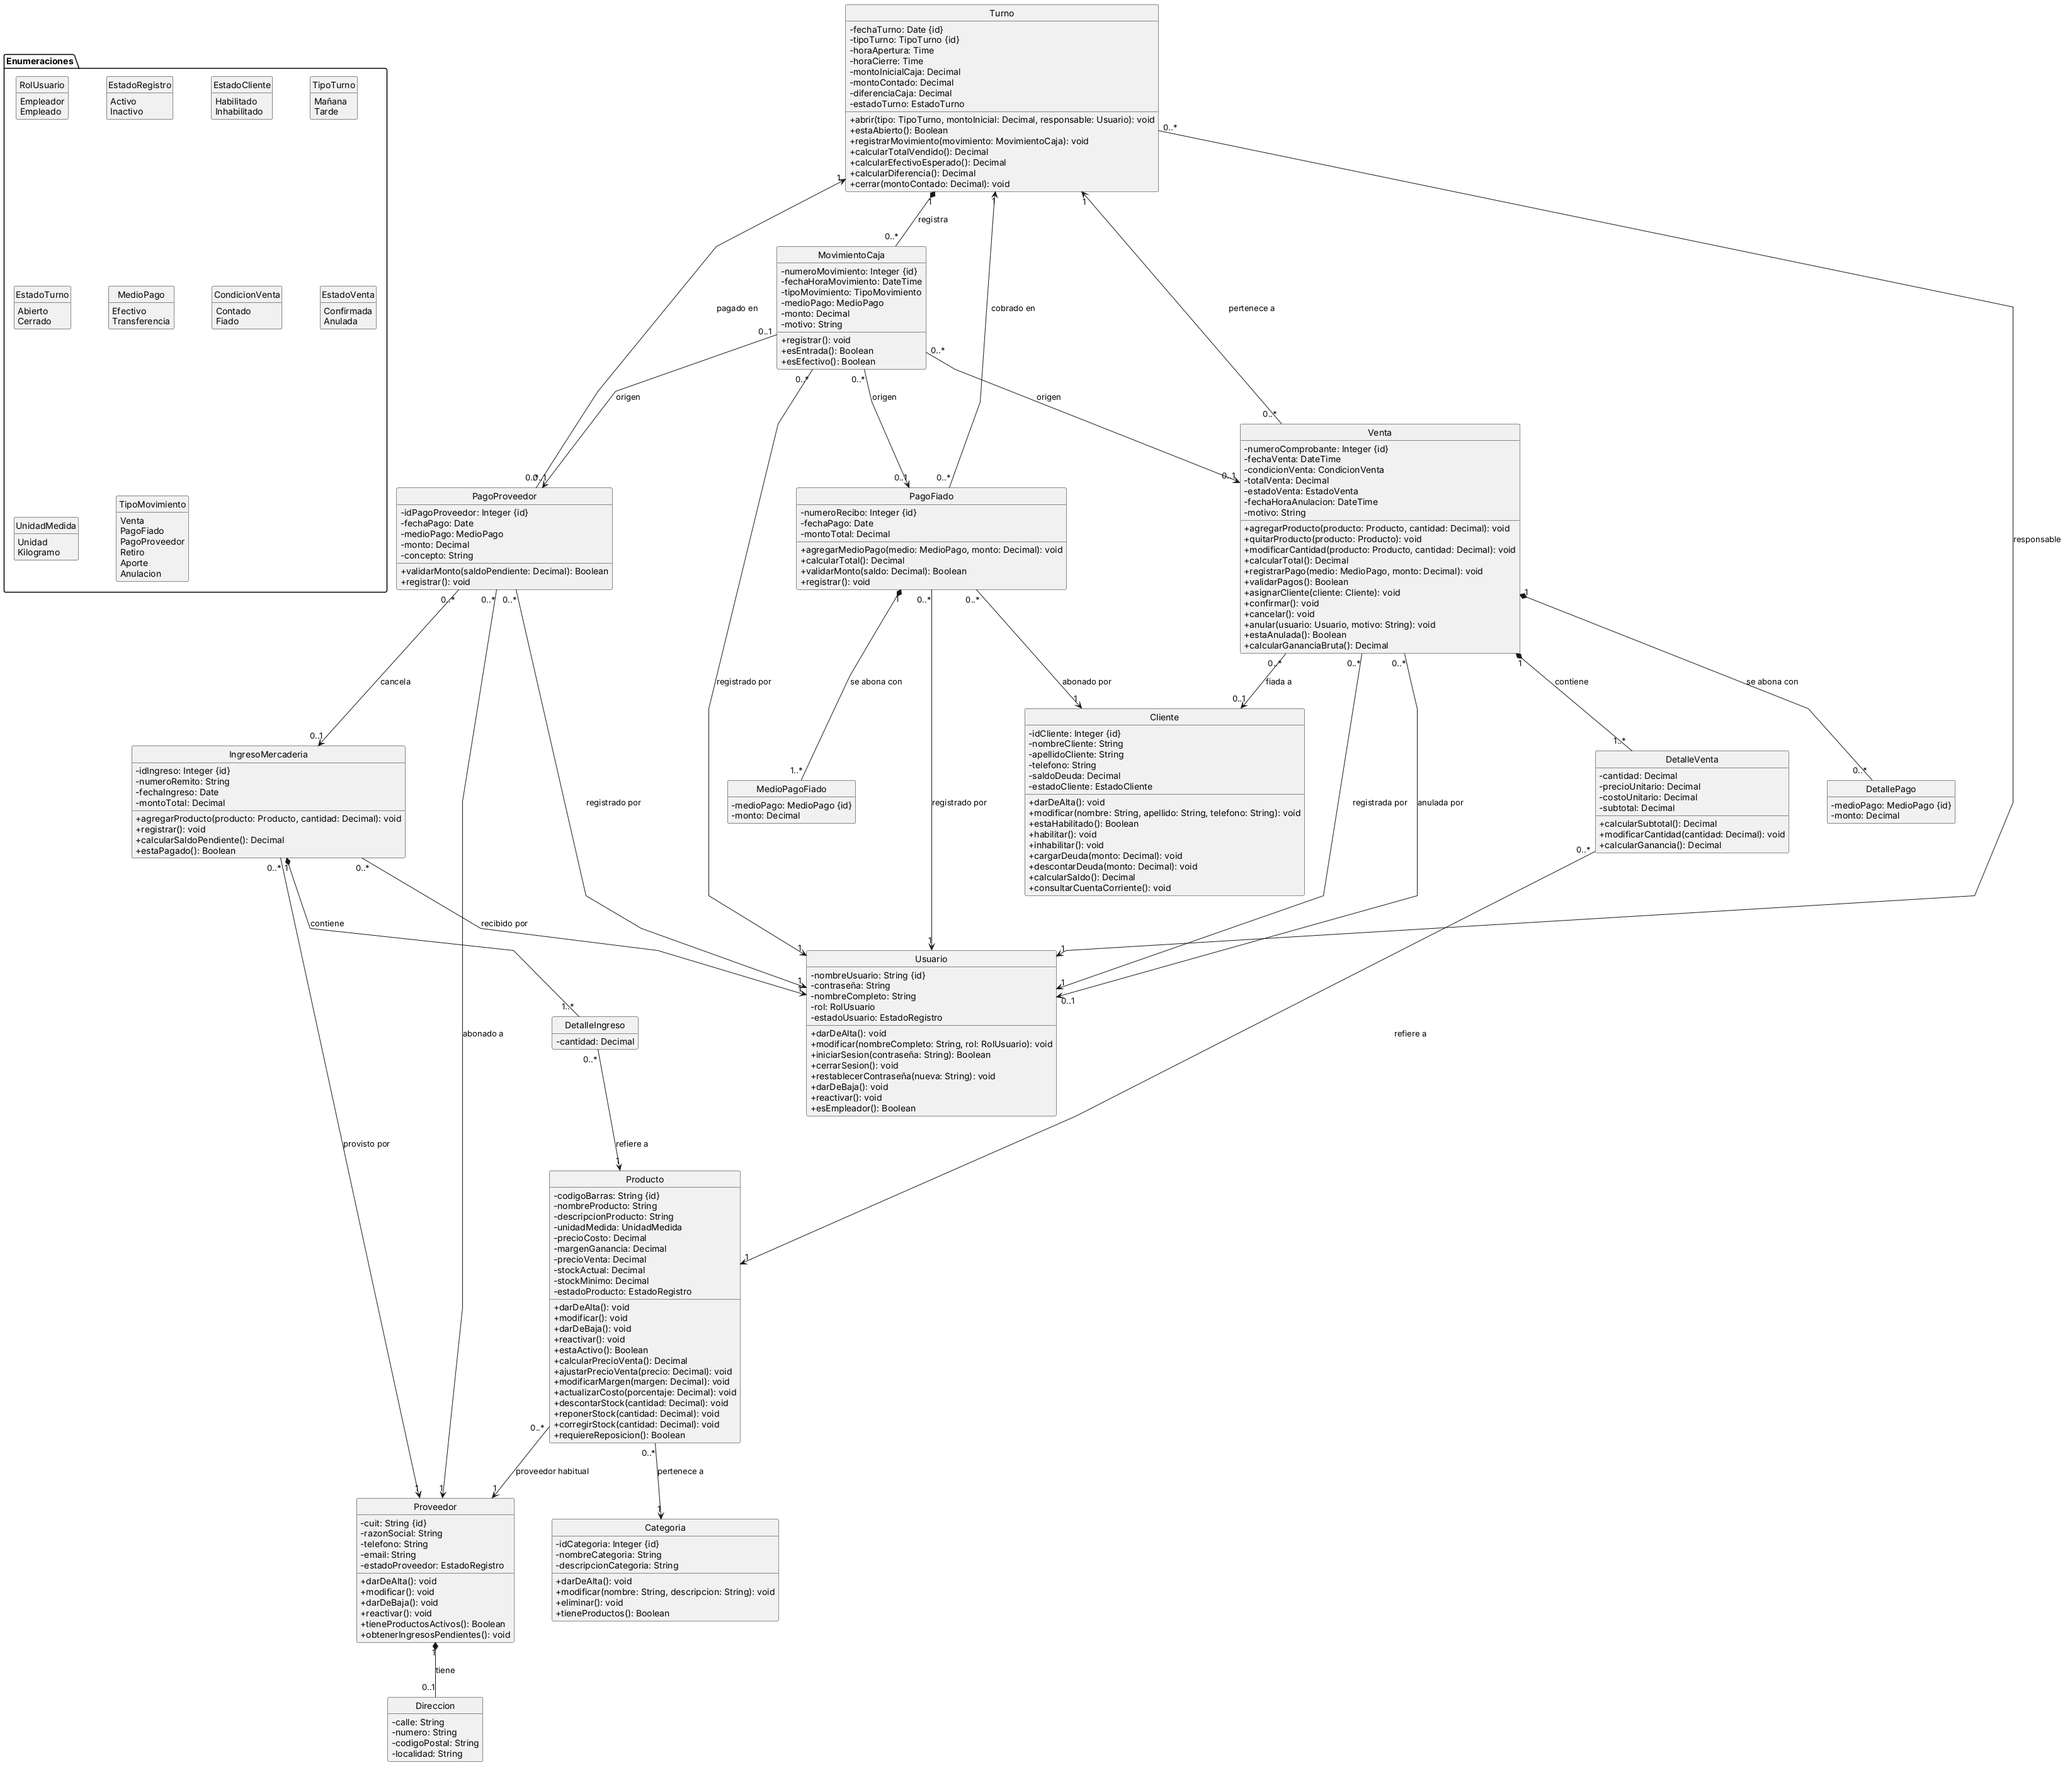
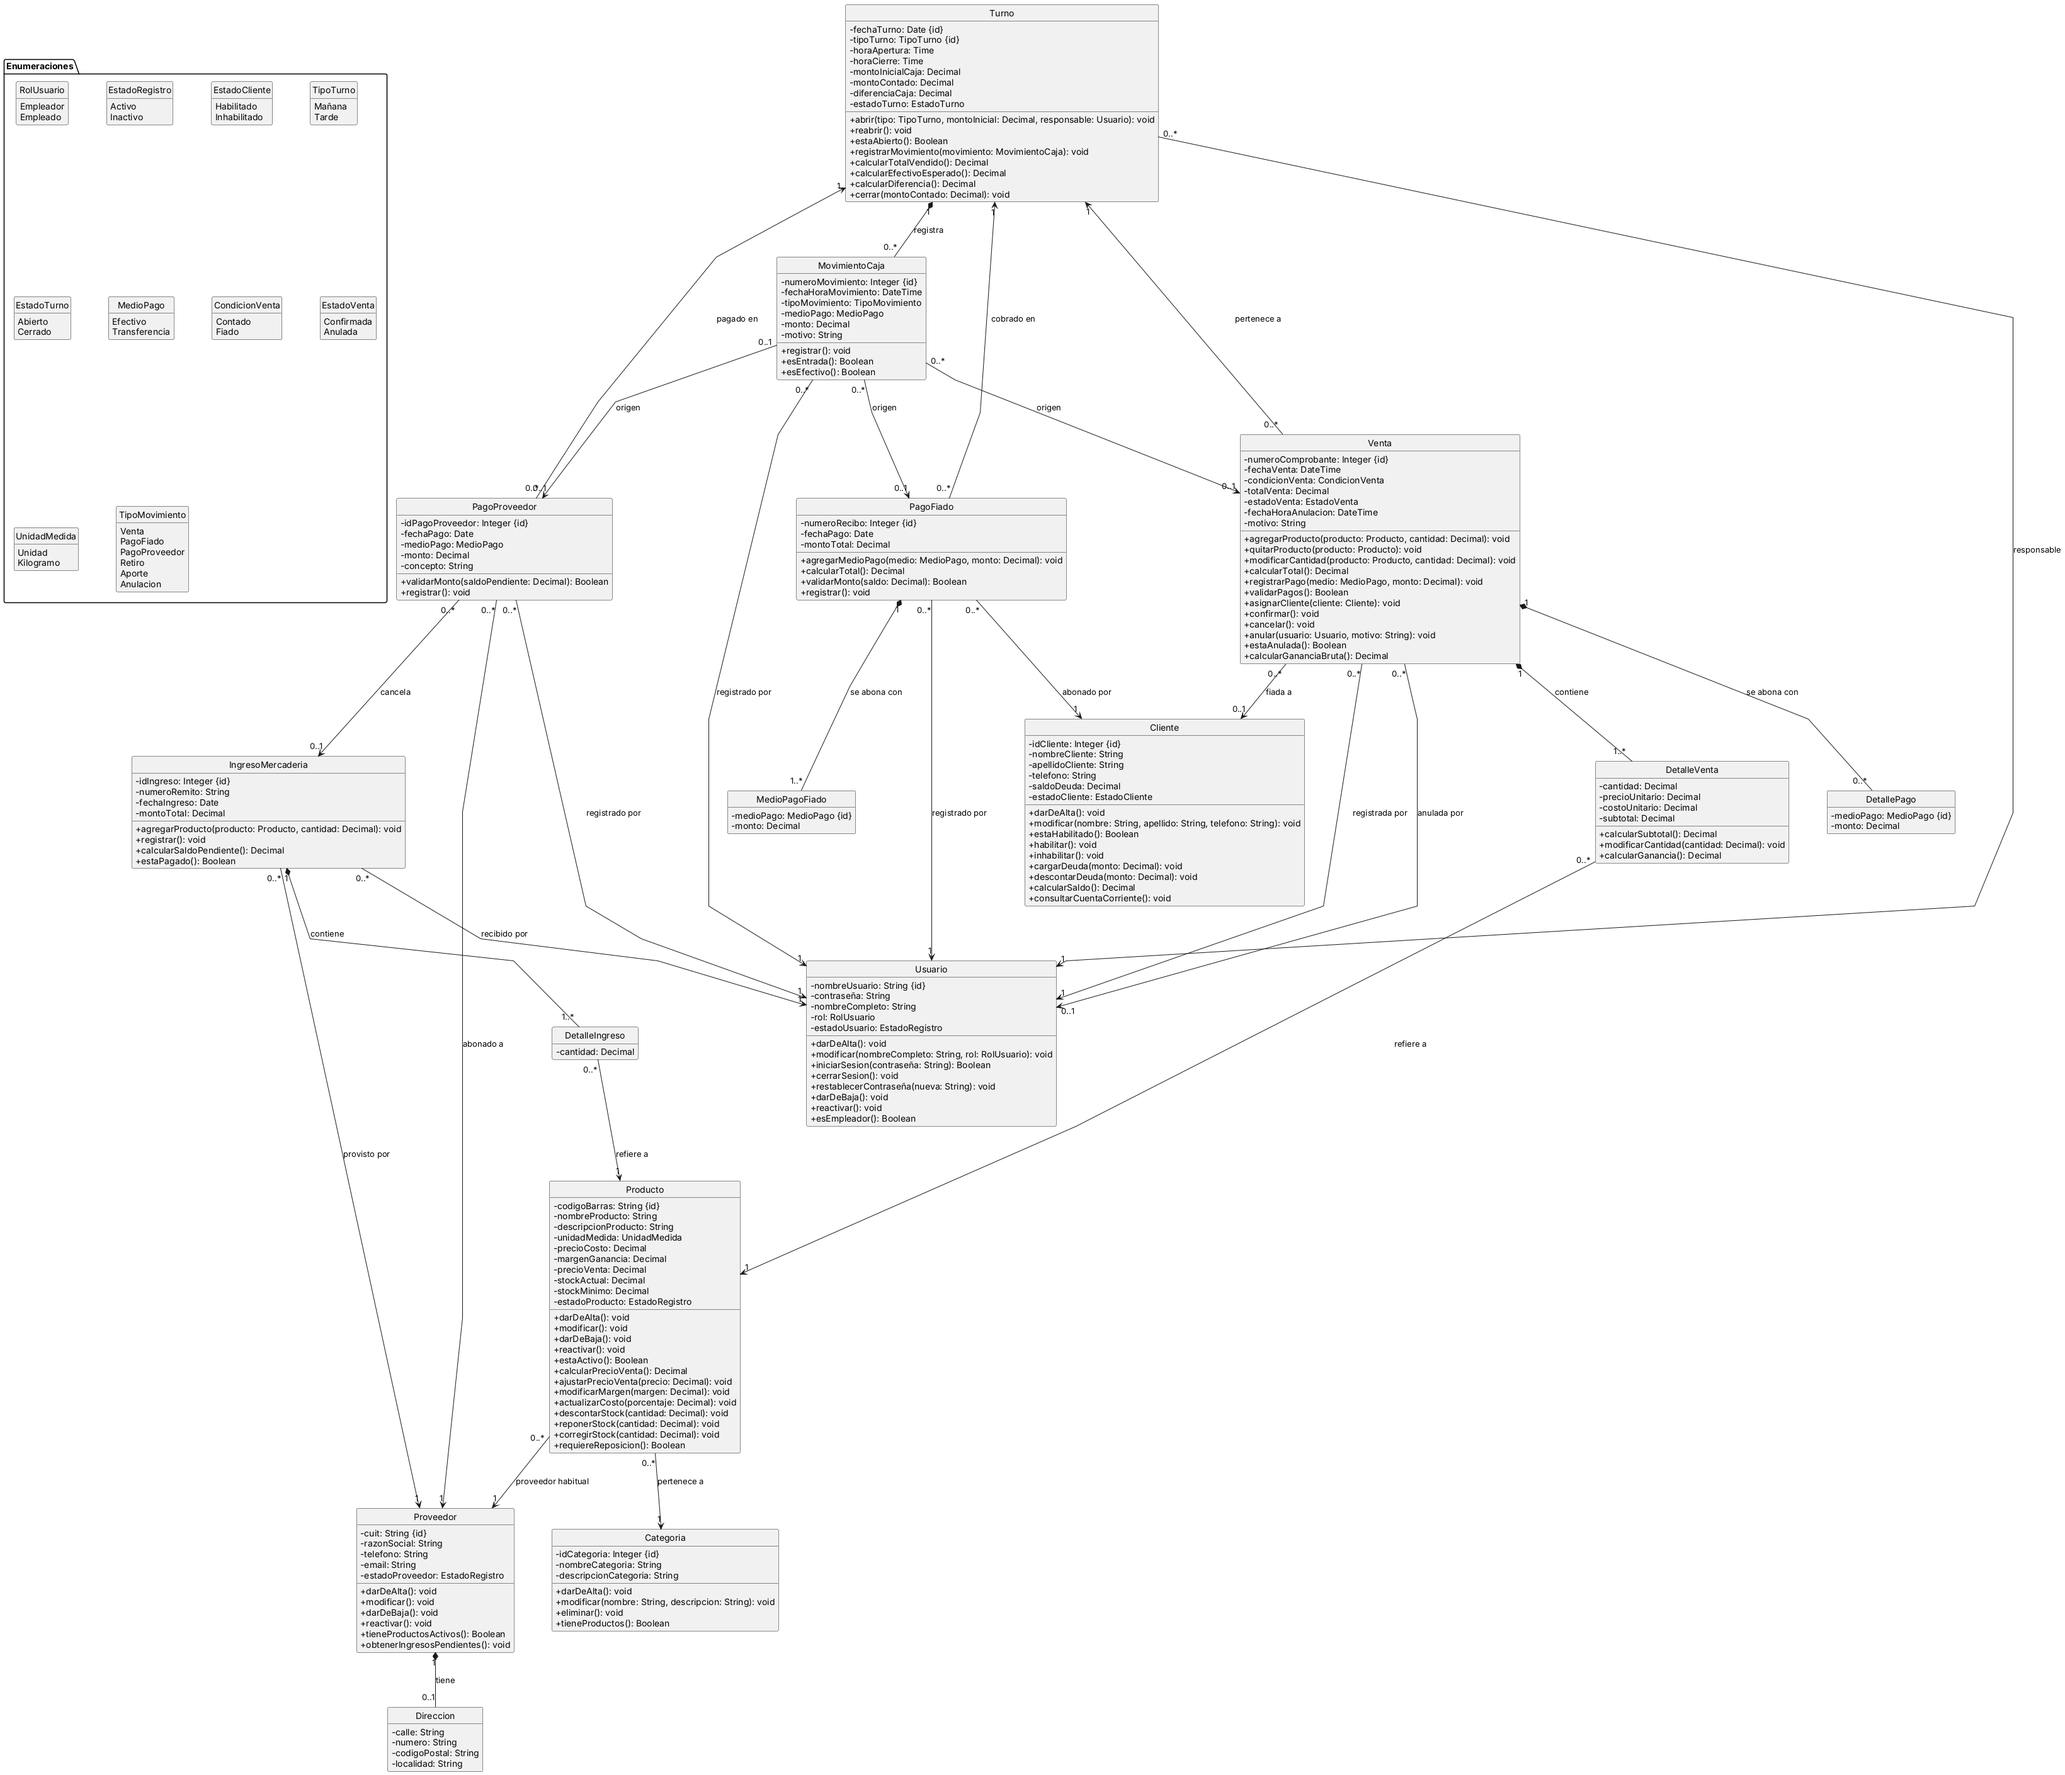
Permitir que el empleador reabra un turno cerrado por error
- RF-21 y restricción 06: solo el empleador puede reabrir un turno del
  día cerrado por error, si no hay otro abierto; se descarta el arqueo
  anterior y al volver a cerrarlo se hace uno nuevo.
- CU-02 Abrir turno: caminos 3.b (empleador reabre el turno) y 3.c
  (empleado: se informa que solo el empleador puede reabrirlo).
- Diagrama de clases: método Turno.reabrir().

diff --git a/05-Caso De Uso/CU-Abrir turno.md b/05-Caso De Uso/CU-Abrir turno.md
@@ -17,11 +17,15 @@ No debe existir otro turno abierto. <br>
 1.a.1 El sistema informa que debe cerrarse el turno abierto antes de abrir uno nuevo. Fin del caso de uso. <br>
 **3.a** El monto inicial ingresado es inválido (negativo o no numérico). <br>
 3.a.1 El sistema informa que el monto es inválido. Vuelve al paso 3. <br>
-**3.b** Ya existe un turno del mismo tipo en la fecha actual. <br>
-3.b.1 El sistema informa que ese turno ya fue registrado. Vuelve al paso 3. <br>
+**3.b** Ya existe un turno del mismo tipo en la fecha actual (fue cerrado) y el usuario tiene rol Empleador. <br>
+3.b.1 El sistema informa que el turno ya fue cerrado y pregunta si desea reabrirlo. <br>
+3.b.2 El empleador confirma. <br>
+3.b.3 El sistema reabre el turno, descartando el efectivo contado y la diferencia del cierre anterior, y lo deja disponible para registrar operaciones. Fin del caso de uso. <br>
+**3.c** Ya existe un turno del mismo tipo en la fecha actual (fue cerrado) y el usuario tiene rol Empleado. <br>
+3.c.1 El sistema informa que ese turno ya fue cerrado y que solo el empleador puede reabrirlo. Fin del caso de uso. <br>
 
-**Escenario de éxito:** el turno queda abierto y se pueden registrar operaciones de caja. <br>
+**Escenario de éxito:** el turno queda abierto (o reabierto por el empleador) y se pueden registrar operaciones de caja. <br>
 
-**Escenario de fracaso:** el turno no se abre porque ya hay un turno abierto o porque ese turno ya fue registrado en la fecha. <br>
+**Escenario de fracaso:** el turno no se abre porque ya hay un turno abierto, o porque ese turno ya fue cerrado en la fecha y el usuario no es el empleador. <br>
 
 **Postcondiciones:** existe un turno abierto con su monto inicial de caja; la fecha del turno es la fecha de apertura.

diff --git a/03-Reglas De Negocio/Reglas De Negocio.md b/03-Reglas De Negocio/Reglas De Negocio.md
@@ -50,7 +50,7 @@ Solo puede existir un turno abierto a la vez. No se podrá abrir un turno nuevo 
 No se podrán registrar ventas, anulaciones de ventas, pagos de fiado, pagos a proveedores, retiros ni aportes si no hay un turno abierto.
 
 ### 06 — Turno cerrado
-Una vez cerrado, un turno no puede modificarse ni se le pueden registrar nuevas operaciones.
+Una vez cerrado, un turno no puede modificarse ni se le pueden registrar nuevas operaciones. Solo el empleador puede reabrir un turno del día que fue cerrado por error, siempre que no haya otro turno abierto; al reabrirlo se descartan el efectivo contado y la diferencia del cierre anterior, y al volver a cerrarlo se realiza un nuevo arqueo.
 
 ### 07 — Arqueo ciego
 Al cerrar el turno, el usuario debe ingresar el efectivo contado antes de que el sistema le muestre el efectivo esperado.

diff --git a/02-Requerimientos/Requerimientos.md b/02-Requerimientos/Requerimientos.md
@@ -63,7 +63,7 @@ RF-20 —
 El sistema permitirá registrar un pago combinado (parte en efectivo, parte en transferencia) para una misma venta.
 
 RF-21 —
-El sistema permitirá a empleados y empleador abrir un turno de caja, indicando el tipo de turno (mañana o tarde) y el monto de efectivo con el que inicia la caja.
+El sistema permitirá a empleados y empleador abrir un turno de caja, indicando el tipo de turno (mañana o tarde) y el monto de efectivo con el que inicia la caja. El empleador podrá además reabrir un turno del día que haya sido cerrado por error.
 
 RF-22 —
 El sistema permitirá cerrar el turno abierto registrando el efectivo contado en la caja, calculando el efectivo esperado y registrando la diferencia (faltante o sobrante) entre ambos.
